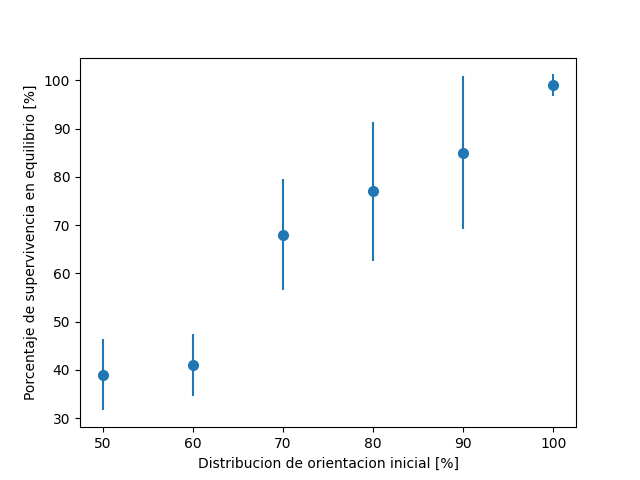
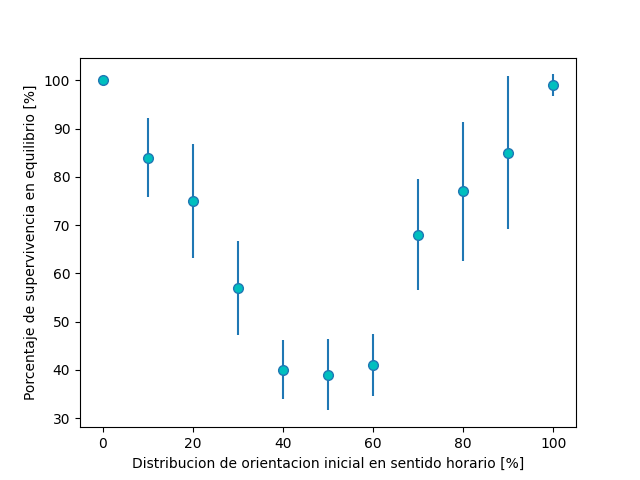
listo men

diff --git a/src/simulation/Orbit.java b/src/simulation/Orbit.java
@@ -27,6 +27,8 @@ public class Orbit {
     private static double MAX_TIME = 50;
     public static double dt;
 
+    public static int timeIdx = 0;
+
     public static int N = 50;
 
     private static double kn = 10e5;
@@ -38,7 +40,8 @@ public class Orbit {
 
     private static NumberFormat defaultFormat = NumberFormat.getPercentInstance();
 
-    private static List<Particle> particles = new ArrayList<>();
+    private static List<Particle> livingParticles = new ArrayList<>();
+    private static List<Particle> particleHistory = new ArrayList<>();
     public static Particle sun;
     public static double o = 0.55;
 
@@ -52,6 +55,7 @@ public class Orbit {
     private static Map<DataType, List<Double>> data = new HashMap<>();
     private static final double forceLoss = 0.5;
 
+    private static List<Integer> exportIdxs = new ArrayList<>();
     private static final int EXPORT_COUNT = 1000;
     private static int EXPORT_DT = (int) (MAX_TIME / (dt * EXPORT_COUNT));
 
@@ -89,10 +93,11 @@ public class Orbit {
     public static void main(String[] args) throws Exception {
         parseArguments(args);
 
-        for (int i = 3; i <= 3; i++) {
-            N = 10 * i;
+        for (int i = 2; i <= 2; i++) {
+            N = 20;
 
             initializeDataArrays();
+            timeIdx = 0;
             simulate();
 
             DataExporter dataExporter = new DataExporter();
@@ -103,6 +108,7 @@ public class Orbit {
     }
 
     private static void initializeDataArrays() {
+        particleHistory = new ArrayList<>();
         for (DataType dataType : getVariableDataHeader())
             data.put(dataType, new ArrayList<>());
     }
@@ -114,25 +120,32 @@ public class Orbit {
         int i = 0;
         sun = Particle.builder().mass(SUN_MASS).radius(SUN_RADIUS).x(0).y(0).id(0).build();
         initializeParticles(N, SPAWN_DISTANCE, o);
-        System.out.println(particles.size());
+        System.out.println(livingParticles.size());
 
         double time = 0;
 
         while (time < MAX_TIME) {
-            particles.forEach(Particle::clearForces);
+            livingParticles.forEach(Particle::clearForces);
             computeCollisions();
             computeGravityForces();
-            particles.removeAll(overlappingSun(particles));
             updateParticlePositions();
+            time += dt;
 
+
+            livingParticles.forEach(Particle::computeOrientation);
+
+            Collection<Particle> overlappingSun = overlappingSun(livingParticles);
+            overlappingSun.forEach(Orbit::correctOrientationHistory);
+
+            particleHistory.addAll(overlappingSun);
+            livingParticles.removeAll(overlappingSun(livingParticles));
             time += dt;
 
             if (exportFrames && i % OVITO_DT == 0) {
                 System.out.println("Progress: " + defaultFormat.format(time / MAX_TIME));
-                System.out.println(computeOrientationCount());
                 ovitoParticles.clear();
                 ovitoParticles.add(sun);
-                ovitoParticles.addAll(particles);
+                ovitoParticles.addAll(livingParticles);
                 ovito.createFile(i/OVITO_DT, ovitoParticles, WIDTH, HEIGHT);
             }
 
@@ -141,27 +154,38 @@ public class Orbit {
                 if (exportEnergy) {
                     System.out.println(DecimalFormat.getPercentInstance().format(time/MAX_TIME));
                     data.get(DataType.TIME).add(time);
-                    data.get(DataType.ENERGY).add(getSystemEnergy(particles));
-                    data.get(DataType.KINETIC_ENERGY).add(getSystemKineticEnergy(particles));
-                    data.get(DataType.PARTICLE_COUNT).add((double) particles.size());
-                    data.get(DataType.CLOCKWISE_PARTICLES).add((double) getParticlesMoving(Orientation.CLOCK));
+                    data.get(DataType.ENERGY).add(getSystemEnergy(livingParticles));
+                    data.get(DataType.KINETIC_ENERGY).add(getSystemKineticEnergy(livingParticles));
+                    data.get(DataType.PARTICLE_COUNT).add((double) livingParticles.size());
+                    // data.get(DataType.CLOCKWISE_PARTICLES).add((double) getParticlesMoving(Orientation.CLOCK));
                     data.get(DataType.COLLISIONS).add(collidedParticles);
+                    exportIdxs.add(timeIdx);
                 }
 
                 collidedParticles = 0;
             }
             i++;
+            timeIdx++;
         }
+        System.out.println(livingParticles.size());
+
+        livingParticles.forEach(Orbit::correctOrientationHistory);
+        particleHistory.addAll(livingParticles);
+
+        for (int j : exportIdxs) {
+            double clockCount = 0;
+            for (Particle p : particleHistory) {
+                if(p.getOrientationBuffer().size() > j && p.getOrientationBuffer().get(j) == Orientation.CLOCK) {
+                    clockCount += 1;
+                }
+            }
+
+            data.get(DataType.CLOCKWISE_PARTICLES).add(clockCount);
+        }
+
     }
 
-    private static Map<Orientation, Long> computeOrientationCount() {
-        Map<Orientation, Long> map = new HashMap<>();
 
-        map.put(Orientation.CLOCK, getParticlesMoving(Orientation.CLOCK));
-        map.put(Orientation.COUNTER, getParticlesMoving(Orientation.COUNTER));
-
-        return map;
-    }
 
     private static double getSystemEnergy(Collection<Particle> particles) {
         return particles.stream().mapToDouble(p -> p.computeEnergy(sun)).sum();
@@ -171,27 +195,39 @@ public class Orbit {
         return particles.stream().mapToDouble(Particle::kineticEnergy).sum();
     }
 
-    private static Long getParticlesMoving(Orientation orientation) {
-        return particles.stream().filter(p -> p.orientation() == orientation).count();
-    }
-
     private static Collection<Particle> overlappingSun(Collection<Particle> particles) {
         return particles.stream().filter(p -> p.isOverlapping(sun)).collect(Collectors.toCollection(ArrayList::new));
     }
 
     private static void computeCollisions() {
-        for(int i = 0; i < particles.size(); i++) {
-            Particle pi = particles.get(i);
-            for (int j = i + 1; j < particles.size(); j++) {
-                Particle pj = particles.get(j);
+        for(int i = 0; i < livingParticles.size(); i++) {
+            Particle pi = livingParticles.get(i);
+            for (int j = i + 1; j < livingParticles.size(); j++) {
+                Particle pj = livingParticles.get(j);
                 if (pi.isOverlapping(pj)) {
                     pi.setColliding(true);
                     pj.setColliding(true);
                     computeCollision(pi, pj);
                     collidedParticles++;
+
+                    correctOrientationHistory(pi);
+                    correctOrientationHistory(pj);
                 }
             }
         }
+    }
+
+    private static void correctOrientationHistory(Particle p)
+    {
+        Orientation resultOr = p.getOrientationBuffer().subList(p.getLastCollision(), timeIdx).stream().
+                filter(or -> or == Orientation.COUNTER).count() > (p.getOrientationBuffer().
+                size() / 2) ? Orientation.COUNTER:Orientation.CLOCK;
+
+        for (int i = p.getLastCollision(); i < timeIdx; i++) {
+            p.getOrientationBuffer().set(i, resultOr);
+        }
+
+        p.setLastCollision(timeIdx);
     }
 
     private static void computeCollision(Particle pi, Particle pj){
@@ -219,11 +255,11 @@ public class Orbit {
     }
 
     private static void updateParticlePositions(){
-        particles.parallelStream().forEach(p -> p.move(dt));
+        livingParticles.parallelStream().forEach(p -> p.move(dt));
     }
 
     private static void computeGravityForces() {
-        particles.forEach(Orbit::computeGravityForces);
+        livingParticles.forEach(Orbit::computeGravityForces);
     }
 
     private static void computeGravityForces(Particle p) {
@@ -240,14 +276,16 @@ public class Orbit {
 
     private static int initializeParticles(int N, double distance, double orientationProportion) {
         Particle p;
-        particles.clear();
+        livingParticles.clear();
 
         long reasonableTimeInNanos = 2 * (long) 1e9;
         long t0 = System.nanoTime();
         long t = t0;
         int n = 0;
         int id = 1;
-        particles = new ArrayList<>();
+        livingParticles = new ArrayList<>();
+
+        int positiveCount = (int) Math.floor(orientationProportion * N);
         while ((t-t0) < reasonableTimeInNanos && n < N) {
             boolean add = true;
             do {
@@ -255,28 +293,28 @@ public class Orbit {
                 double x = distance * Math.cos(theta);
                 double y = distance * Math.sin(theta);
 
-                // Clockwise if < 0, counterclockwise if > 0.
-                // The orientationProportion defines how many (%) particles will start moving in a clockwise motion.
-                double randomOrientation = Math.random() - orientationProportion;
+                double sign = -1;
+                if(positiveCount-- <= 0)
+                    sign = 1;
 
-                double vt = VT0 * Math.signum(randomOrientation);
+                double vt = VT0 * Math.signum(sign);
 
                 double vn = (Math.random() - 0.5) * VN0;
 
                 double vx = - vt * Math.sin(theta) + vn * Math.cos(theta);
                 double vy = vt * Math.cos(theta) + vn * Math.sin(theta);
-                p = Particle.builder().id(n).x(x).y(y).mass(PARTICLE_MASS).radius(PARTICLE_RADIUS).vx(vx).vy(vy).fn(0).ft(0).id(id).build();
+                p = Particle.builder().id(n).x(x).y(y).mass(PARTICLE_MASS).radius(PARTICLE_RADIUS).vx(vx).vy(vy).fn(0).ft(0).id(id).orientationBuffer(new ArrayList<>()).build();
                 t = System.nanoTime();
 
                 if (t-t0 > reasonableTimeInNanos) {
                     add = false;
                     break;
                 }
-            } while (!p.isValid(particles));
+            } while (!p.isValid(livingParticles));
 
             if (add) {
                 id++;
-                particles.add(p);
+                livingParticles.add(p);
                 n++;
             }
 

diff --git a/src/analysis/plotter.py b/src/analysis/plotter.py
@@ -11,6 +11,25 @@ data_folder = os.path.abspath(os.path.join(curr_dir, os.pardir, os.pardir, 'data
 data_files_paths = [os.path.join(data_folder, file_name) for file_name in os.listdir(data_folder)
                     if file_name.endswith('.data')]
 
+def plot_survivors(N=20):
+    df = pd.read_csv(data_folder + '/survivors.csv')
+    df = df[df['N'] == N]
+    df['o'] = df.apply(lambda x: x.o*100, axis=1)
+    df['s_rate'] = df.apply(lambda x: x.s*100/x.N, axis=1)
+    plt.figure()
+    gp = df.groupby(['o'])
+    means = gp.mean()
+    error = gp.std()
+
+    plt.xlabel('Distribucion de orientacion inicial en sentido horario [%]')
+    plt.ylabel('Porcentaje de supervivencia en equilibrio [%]')
+    plt.errorbar(means.index, means['s_rate'], yerr=error['s_rate'], marker='o', fmt='o', mfc='c', capthick=10, ms=7)
+
+    plt.savefig('C:/Users/Andres/ss-final/graphs/{:d}_survival.png'.format(N))
+    plt.show()
+
+def plot_energy_dt(df):
+    plt.plot(df.t, df.E, label=df['dt'][0])
 
 def plot_count(df):
     plt.yticks(np.arange(0, 31, 2))
@@ -27,9 +46,11 @@ def plot_kinetic_energy(df):
 
 
 def plot_clockwise_particles(df):
+    plt.ylim(bottom=0, top=105)
     clockwise_percentage = df['clock']/df['n'] * 100
-    plt.ylim(bottom=0, top=100)
-    plt.plot(df.t, clockwise_percentage, label=df['N'][0])
+    label='{:d}'.format(int(df['o'].mode()[0]*100))
+    plt.plot(df.t, clockwise_percentage, label=label, linestyle='dotted')
+
 
 
 def plot_collisions(df):
@@ -49,14 +70,17 @@ def plot_results(y_label, plot_function):
     plt.ylabel(y_label)
     [plot_function(pd.read_csv(data_file)) for data_file in data_files_paths]
     handles, labels = get_handles_and_labels_for_sorted_legend()
-    legend = plt.legend(handles, labels, loc='best', title='Partículas iniciales\nen el sistema')
+    legend = plt.legend(handles, labels, loc='best', title='Proporción inicial\nen el sistema')
     plt.setp(legend.get_title(), multialignment='center')
+    #plt.savefig('C:/Users/Andres/ss-final/graphs/stationary.png')
     plt.show()
     plt.close()
 
 
-plot_results('Energía total [J]', plot_total_energy)
-plot_results('Energía cinética [J]', plot_kinetic_energy)
-plot_results('% de partículas en sentido horario', plot_clockwise_particles)
-plot_results('Colisiones', plot_collisions)
-plot_results('Cantidad de partículas', plot_count)
+#plot_results('Energía total [J]', plot_total_energy)
+#plot_results('Energía cinética [J]', plot_kinetic_energy)
+#plot_results('% de partículas en sentido horario', plot_clockwise_particles)
+#plot_results('Colisiones', plot_collisions)
+#plot_results('Cantidad de partículas', plot_count)
+
+plot_survivors(N=20)

diff --git a/src/model/Particle.java b/src/model/Particle.java
@@ -24,6 +24,10 @@ public class Particle {
     private ToDoubleBiFunction<Double, Double> force;
     private boolean isColliding;
 
+    private int lastCollision = 0;   //timeIdx
+    private List<Orbit.Orientation> orientationBuffer;
+    private Orbit.Orientation ovitoOrientation;
+
     public void applyForce(double fx, double fy) {
         ax += fx/mass;
         ay += fy/mass;
@@ -96,14 +100,16 @@ public class Particle {
         }
     }
 
-    public Orbit.Orientation orientation() {
+    public void computeOrientation() {
+        Orbit.Orientation o;
         if (x > 0) {
-            return vy > 0 ? Orbit.Orientation.COUNTER : Orbit.Orientation.CLOCK;
+            o = vy > 0 ? Orbit.Orientation.COUNTER : Orbit.Orientation.CLOCK;
         } else if (x < 0) {
-            return vy < 0 ? Orbit.Orientation.COUNTER : Orbit.Orientation.CLOCK;
+            o = vy < 0 ? Orbit.Orientation.COUNTER : Orbit.Orientation.CLOCK;
         } else {
-            return vx > 0 ? Orbit.Orientation.CLOCK : Orbit.Orientation.COUNTER;
+            o = vx > 0 ? Orbit.Orientation.CLOCK : Orbit.Orientation.COUNTER;
         }
+        orientationBuffer.add(o);
     }
 
     private double getFx(){
@@ -146,7 +152,7 @@ public class Particle {
     }
 
     public double potentialEnergy(Particle sun) {
-        return Orbit.GRAVITY  * sun.getMass() * mass * getVectorDistance(sun);
+        return - Orbit.GRAVITY  * sun.getMass() * mass / getVectorDistance(sun);
     }
 
     public double computeEnergy(Particle sun) {

diff --git a/src/analysis/DataExporter.java b/src/analysis/DataExporter.java
@@ -33,7 +33,7 @@ public class DataExporter {
         for (int i = 0; i < rows; i++) {
             StringBuilder sb = new StringBuilder();
 
-            sb.append(Orbit.dt).append(",").append(Orbit.N).append(",");
+            sb.append(Orbit.dt).append(",").append(Orbit.N).append(",").append(Orbit.o).append(",");
 
             List<Orbit.DataType> dataHeader = Orbit.getVariableDataHeader();
 
@@ -63,6 +63,6 @@ public class DataExporter {
     private String getFileHeader() {
         List<Orbit.DataType> dataHeader = Orbit.getVariableDataHeader();
 
-        return "dt,N," + dataHeader.stream().map(Objects::toString).collect(Collectors.joining(","));
+        return "dt,N,o," + dataHeader.stream().map(Objects::toString).collect(Collectors.joining(","));
     }
 }
